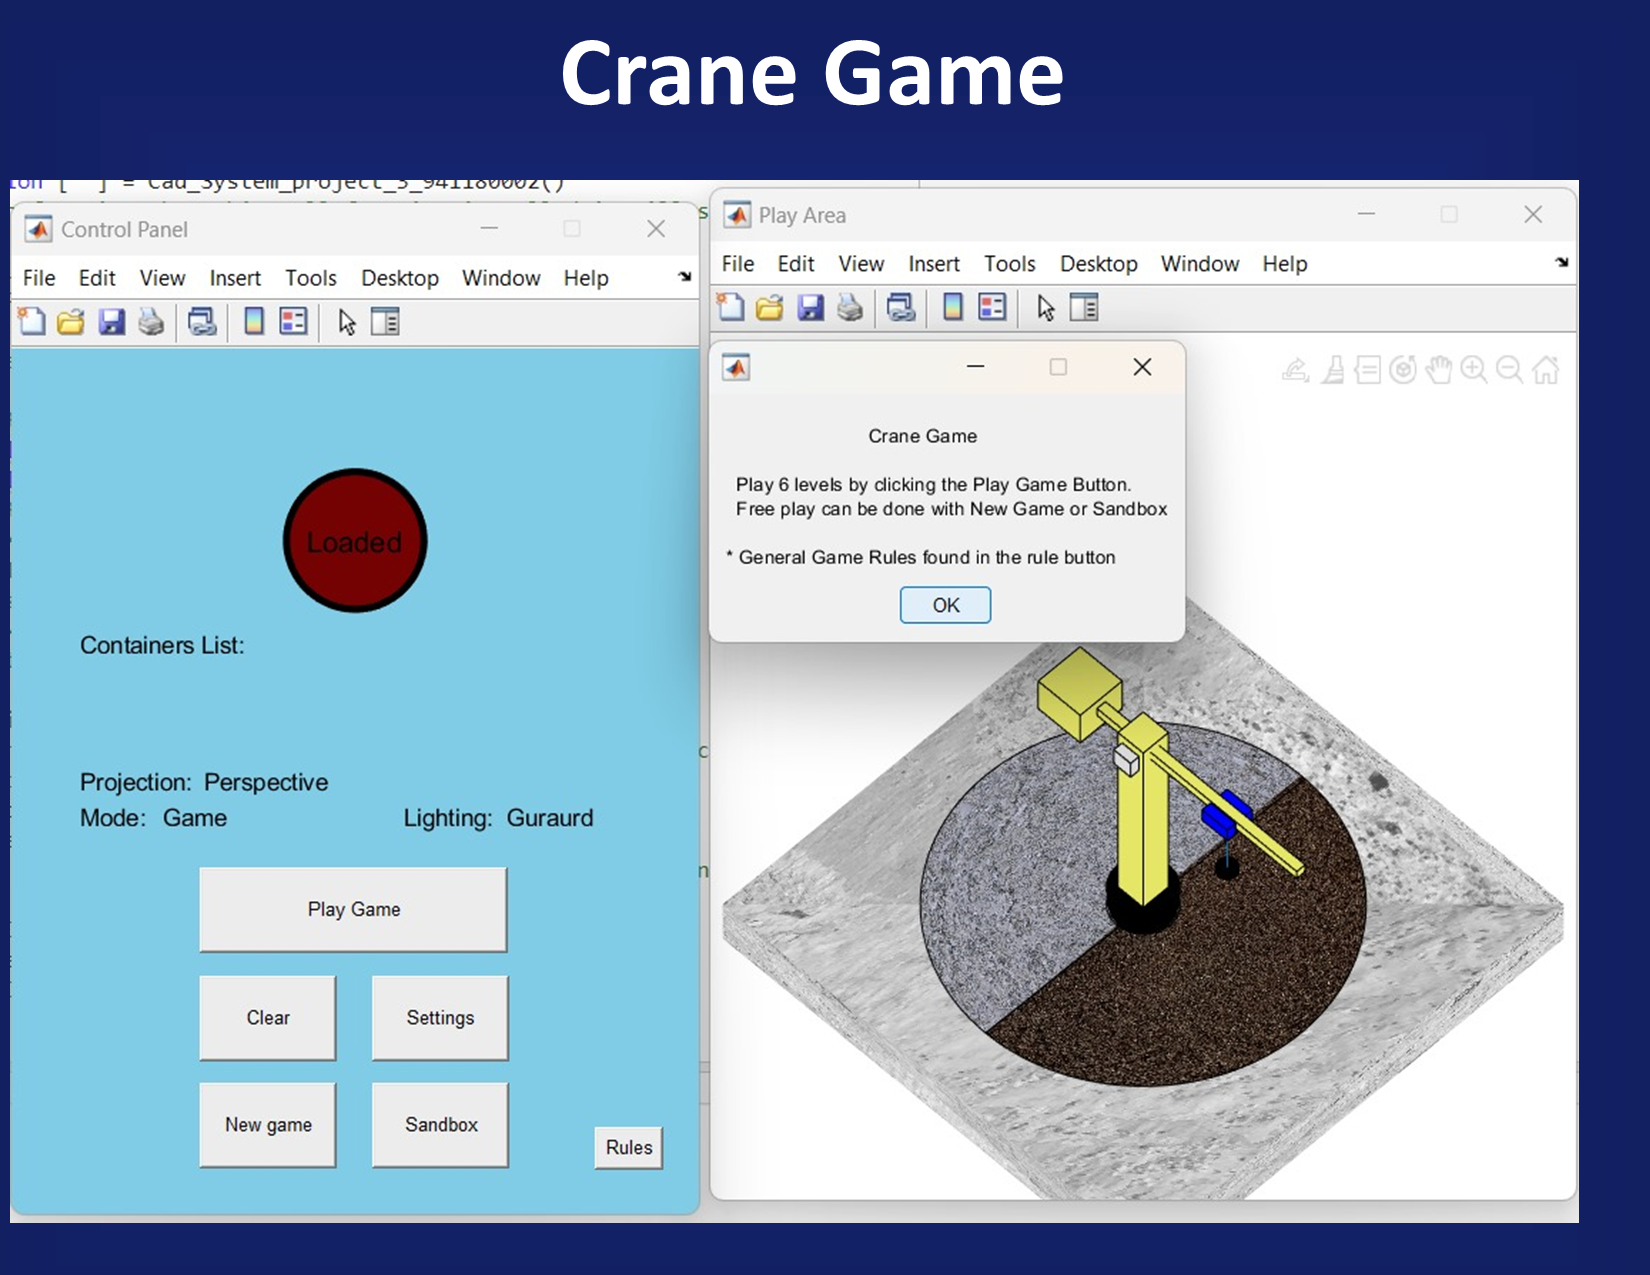
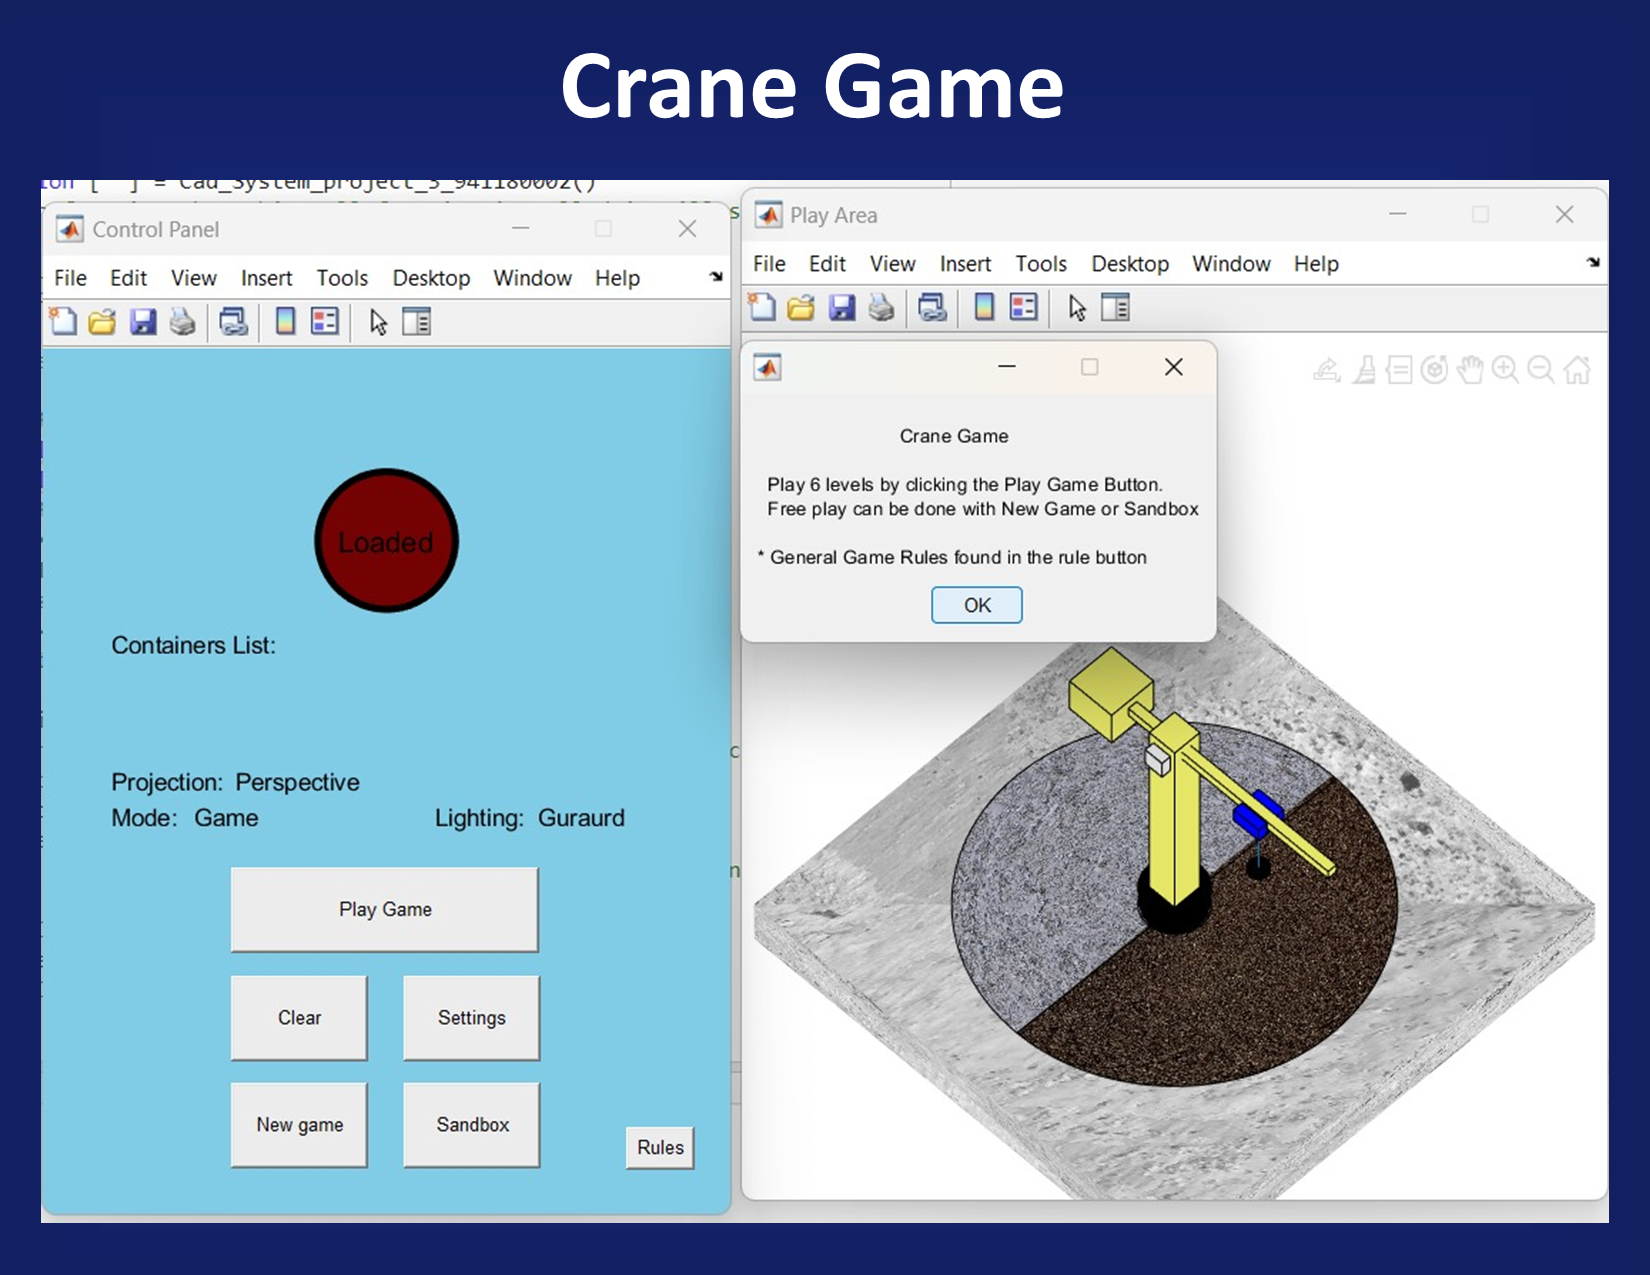
Another update, more information filled in and more gif's

diff --git a/P5.html b/P5.html
@@ -105,11 +105,11 @@
               <div class="swiper-wrapper align-items-center">
 
                 <div class="swiper-slide">
-                  <img src="assets/img/projects/Spiral_Drawer/P1.png" alt="">
+                  <img src="assets/img/projects/Crane_Game/CraneGame2.jpeg" alt="">
                 </div>
 
                 <div class="swiper-slide">
-                  <img src="assets/img/projects/Spiral_Drawer/P2.png" alt="">
+                  <img src="assets/img/projects/Crane_Game/CraneGame3.jpeg" alt="">
                 </div>
 
               </div>
@@ -121,14 +121,14 @@
             <div class="portfolio-info">
               <h3>Project information</h3>
               <ul>
-                <li><strong>Category</strong>: Final Project</li>
+                <li><strong>Category</strong>: CAD Systems Project</li>
                 <li><strong>Faculty</strong>: Mechanical Engineering</li>
-                <li><strong>Project date</strong>: Oct 2021- June 2022</li>
+                <li><strong>Project date</strong>: June 2022</li>
                 <li><strong>Project Link</strong>: github_link</li>
               </ul>
             </div>
             <div class="portfolio-description">
-              <h2>Spiral Drawing Robot</h2>
+              <h2>MATLAB Crane Game</h2>
               <p>
                 ME faculty final project which I worked with 2 teammates and a mentor on designing custom needed bunk beds for a customer in Haifa.
               </p>

diff --git a/index.html b/index.html
@@ -112,8 +112,8 @@
           <div class="col-lg-7">
             <div class="about-descr">
 
-              <p class="p-heading">im a ux /ui designer austin based who loves clean, simple & unique design. i also enjoy crafting brand identities, icons, & ilustration work. </p>
-              <p class="separator">To an English person, it will seem like simplified English, as a skeptical Cambridge friend of mine told me what Occidental is. The European languages are members of the same family.English person.</p>
+              <p class="p-heading">I'm 23 years old, originally from Boca Raton, FL. Five years ago, I came to Israel because, in high school, I went on a high tech tour of Startup Nation. </p>
+              <p class="separator"> The tour opened my eyes to the Startup Nation and inspired me to strive to bring success to Israel, similar to the fortunes of Israeli startups. This aspiration led me to the Technion, where I studied mechanical engineering. While I had always desired to be an engineer, it was at the Technion that I discovered my skillset and abilities.</p>
 
             </div>
 

diff --git a/P4.html b/P4.html
@@ -104,7 +104,7 @@
             <div class="portfolio-details-slider swiper">
               <div class="swiper-wrapper align-items-center">
                 <div class="swiper-slide">
-                  <img src="assets/img/projects/Engine/gif1.gif" alt="">
+                  <img src="assets/img/projects/Engine/gif1.gif" loop=infinite alt="">
                 </div>
                 <div class="swiper-slide">
                   <img src="assets/img/projects/Engine/Engine2.jpeg" alt="">
@@ -114,7 +114,7 @@
                   <img src="assets/img/projects/Engine/Engine3.jpeg" alt="">
                 </div>
                 <div class="swiper-slide">
-                  <img src="assets/img/projects/Engine/gif2.gif" alt="">
+                  <img src="assets/img/projects/Engine/gif2.gif" loop=infinite alt="">
                 </div>
               </div>
               <div class="swiper-pagination"></div>

diff --git a/P3.html b/P3.html
@@ -111,6 +111,9 @@
                 <div class="swiper-slide">
                   <img src="assets/img/projects/Spiral_Drawer/P2.png" alt="">
                 </div>
+                <div class="swiper-slide">
+                  <img src="assets/img/projects/Spiral_Drawer/p3.gif" loop=infinite  alt="">
+                </div>
 
               </div>
               <div class="swiper-pagination"></div>

diff --git a/assets/css/style.css b/assets/css/style.css
@@ -604,7 +604,7 @@ p {
   margin: 10px 0;
   position: relative;
   font-size: 13px;
-  color: #292929;
+  color: #fff;
   letter-spacing: 0.1em;
   font-weight: 500;
   text-transform: uppercase;
